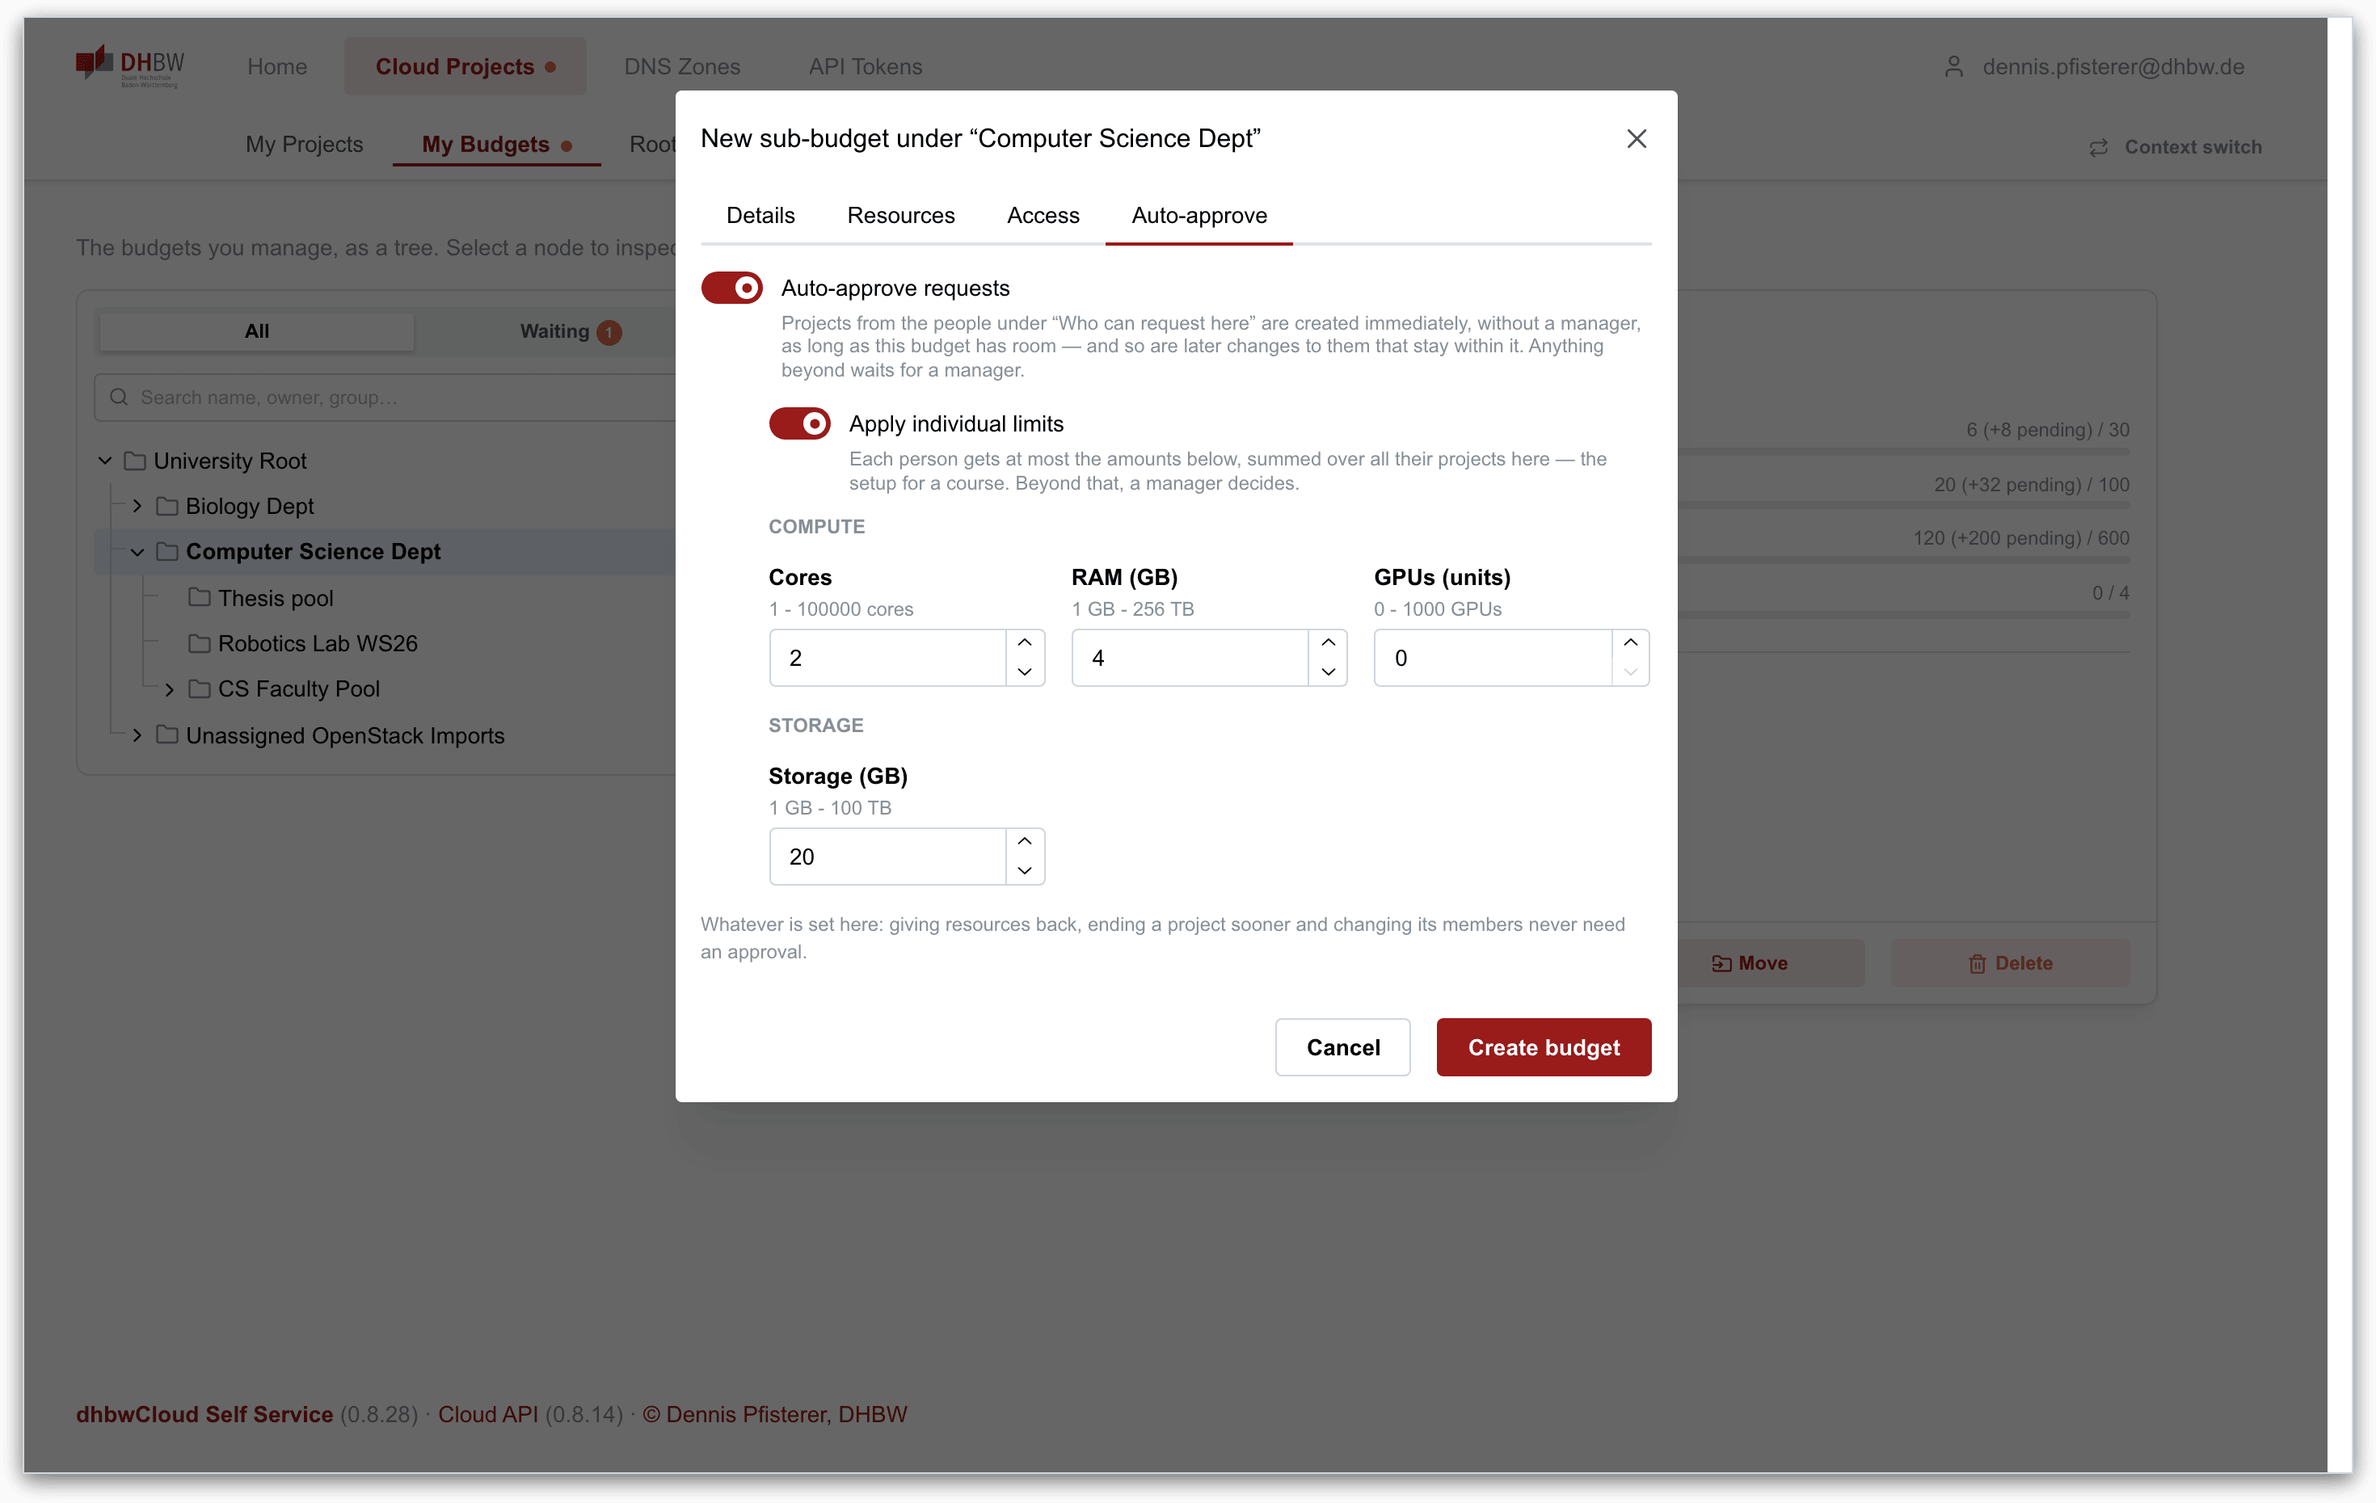
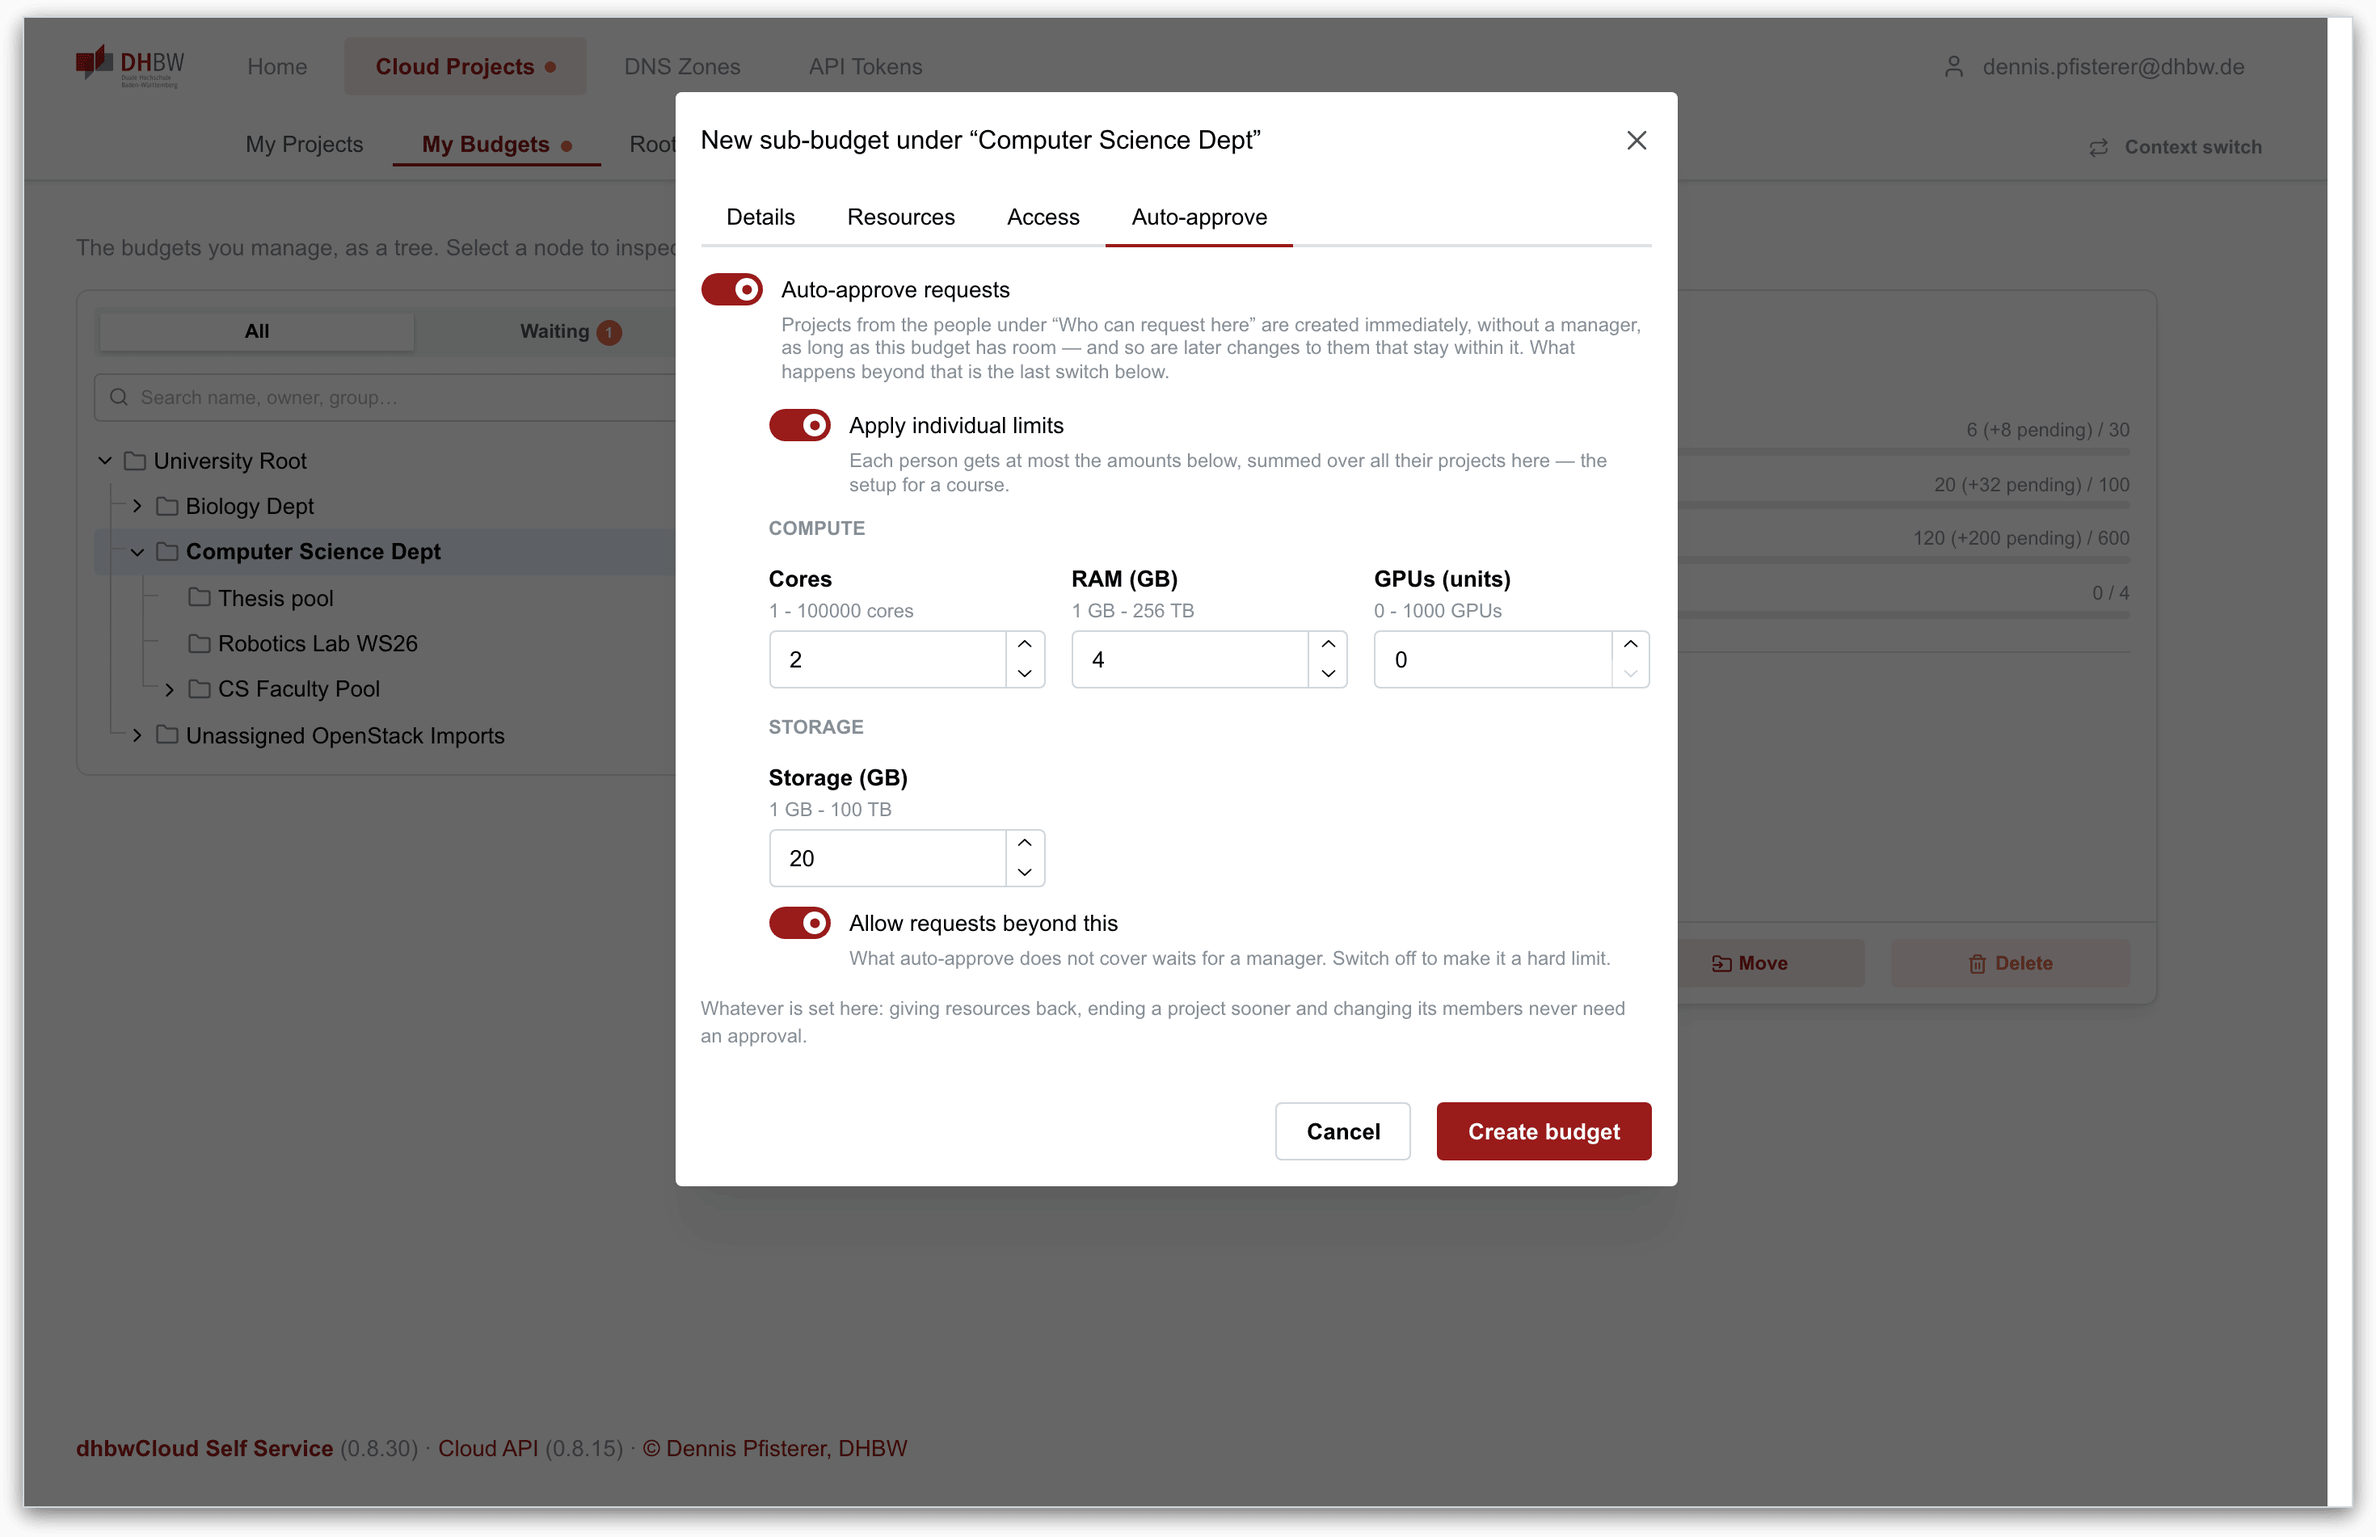
budgets: the switch for requests beyond auto-approve sits with auto-approve
It decides what happens to everything auto-approve does not cover, so it is the last switch in that tab, and the texts above it no longer promise a manager's decision.

diff --git a/web/projects/modal-budget-form.jsx b/web/projects/modal-budget-form.jsx
@@ -116,7 +116,7 @@ export function BudgetFormModal({ opened, onClose, onDone, resources, mode, pare
         }),
     });
 
-    const { quota, adminScope, eligibleRequesters, autoApproveEnabled, autoApproveIndividual, autoApproveQuota } = form.values;
+    const { quota, adminScope, eligibleRequesters, autoApproveEnabled, autoApproveIndividual, autoApproveQuota, allowRequestsBeyond } = form.values;
     const offered = visibleResources(resources, scopeFor(form.values.parentId));
 
     // The budget the new one would draw from: the picked one when requesting,
@@ -359,23 +359,6 @@ export function BudgetFormModal({ opened, onClose, onDone, resources, mode, pare
                         {...form.getInputProps('allowSubBudgetRequests', { type: 'checkbox' })}
                         style={fadedWithoutRequesters}
                     />
-
-                    {/* Belongs to the requesters, not to auto-approve: it says what
-                        they may ask for. It only has something to limit once
-                        auto-approve is on, so it is faded until then. */}
-                    <Checkbox
-                        label="Also allow requests beyond auto-approve"
-                        description={!hasRequesters
-                            ? 'Only relevant once somebody may request here.'
-                            : !autoApproveEnabled
-                                ? 'Only relevant with auto-approve (next tab) — without it every request waits for a manager anyway.'
-                                : form.values.allowRequestsBeyond
-                                    ? 'What auto-approve does not cover waits for a manager. Turn this off to make it a hard limit.'
-                                    : 'Off: what auto-approve does not cover is refused right away — nothing waits for a manager. Managers themselves are not limited.'}
-                        disabled={!hasRequesters || !autoApproveEnabled}
-                        {...form.getInputProps('allowRequestsBeyond', { type: 'checkbox' })}
-                        style={{ opacity: hasRequesters && autoApproveEnabled ? 1 : 0.45, transition: 'opacity 150ms ease' }}
-                    />
                 </Stack>
             </Fieldset>
 
@@ -399,7 +382,7 @@ export function BudgetFormModal({ opened, onClose, onDone, resources, mode, pare
             <Stack gap="md">
                 <Switch
                     label="Auto-approve requests"
-                    description="Projects from the people under “Who can request here” are created immediately, without a manager, as long as this budget has room — and so are later changes to them that stay within it. Anything beyond waits for a manager."
+                    description="Projects from the people under “Who can request here” are created immediately, without a manager, as long as this budget has room — and so are later changes to them that stay within it. What happens beyond that is the last switch below."
                     disabled={!hasRequesters}
                     {...form.getInputProps('autoApproveEnabled', { type: 'checkbox' })}
                     style={fadedWithoutRequesters}
@@ -423,7 +406,7 @@ export function BudgetFormModal({ opened, onClose, onDone, resources, mode, pare
                         <Switch
                             label="Apply individual limits"
                             description={autoApproveIndividual
-                                ? 'Each person gets at most the amounts below, summed over all their projects here — the setup for a course. Beyond that, a manager decides.'
+                                ? 'Each person gets at most the amounts below, summed over all their projects here — the setup for a course.'
                                 : 'Off: everybody draws from the whole budget until it is used up — the setup for a personal or team pool. Switch on to give each person a fixed share.'}
                             disabled={!autoApproveEnabled || !hasRequesters}
                             {...form.getInputProps('autoApproveIndividual', { type: 'checkbox' })}
@@ -440,6 +423,16 @@ export function BudgetFormModal({ opened, onClose, onDone, resources, mode, pare
                                 }}
                             />
                         )}
+                        {/* What happens to everything the policy does not
+                            cover: a manager decides, or it is refused. */}
+                        <Switch
+                            label="Allow requests beyond this"
+                            description={allowRequestsBeyond
+                                ? 'What auto-approve does not cover waits for a manager. Switch off to make it a hard limit.'
+                                : 'Off: what auto-approve does not cover is refused right away — nothing waits for a manager. The managers of this budget are not limited.'}
+                            disabled={!autoApproveEnabled || !hasRequesters}
+                            {...form.getInputProps('allowRequestsBeyond', { type: 'checkbox' })}
+                        />
                     </Stack>
                 </Box>
                 <Text size="xs" c="dimmed">
